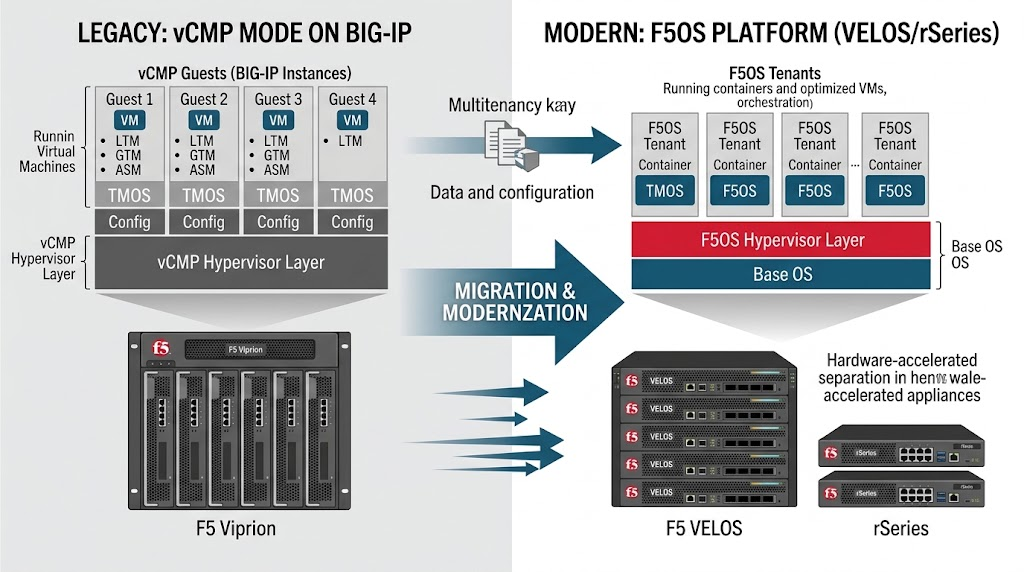
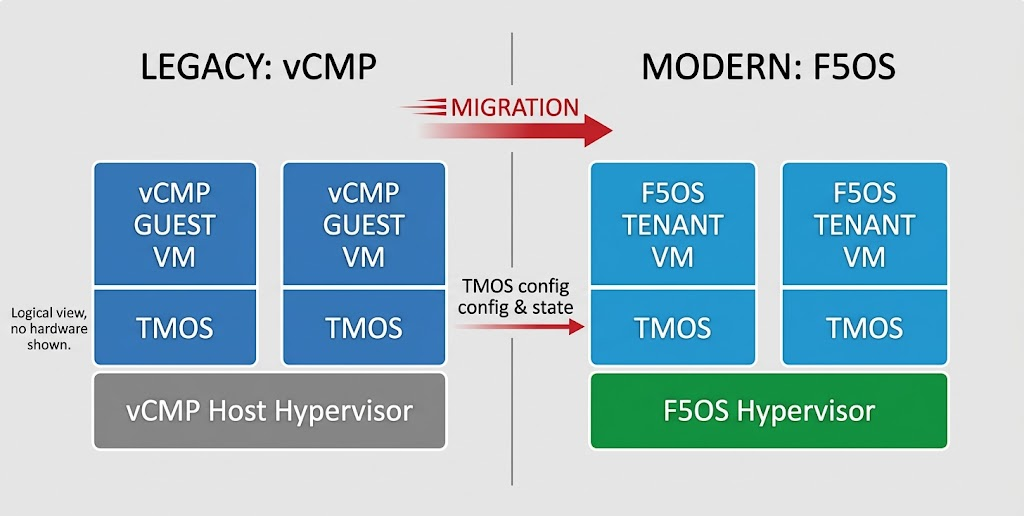
vcmp f5os image and token image

diff --git a/_posts/2026-09-18-f5os-backup-with-ansible.md b/_posts/2026-09-18-f5os-backup-with-ansible.md
@@ -7,7 +7,9 @@ excerpt: "Backing up F5OS with Ansible "
 Newer F5 VELOS/rSeries devices have microservices based F5OS running as the hypervisor(host OS) layer which is different from the previous generation iSeries/Viprions platforms that have BigIP TMOS playing the role on both Hypervisor and Guest layers.
 ![Alt Text](/assets/images/vcmp_f5os.jpg)
 
-Having migrated to new rSeries - required some bit of code to pull backup host OS config as push option wasnt available like in some products like Cisco FMC. No change to the way Tenants were backed up as that was still TMOS where we simply backup the .ucs archive. 
+Having migrated to new rSeries - required some bit of code to pull backup host OS config as push option wasnt available like in some products like Cisco FMC. 
+
+In my case, No change to the way Tenants were backed up as that was still TMOS where we simply backup the .ucs archive. 
 
 I planned to do this with shell script compiled of curl based RESTCONF calls given in https://my.f5.com/manage/s/article/K000140649
 
